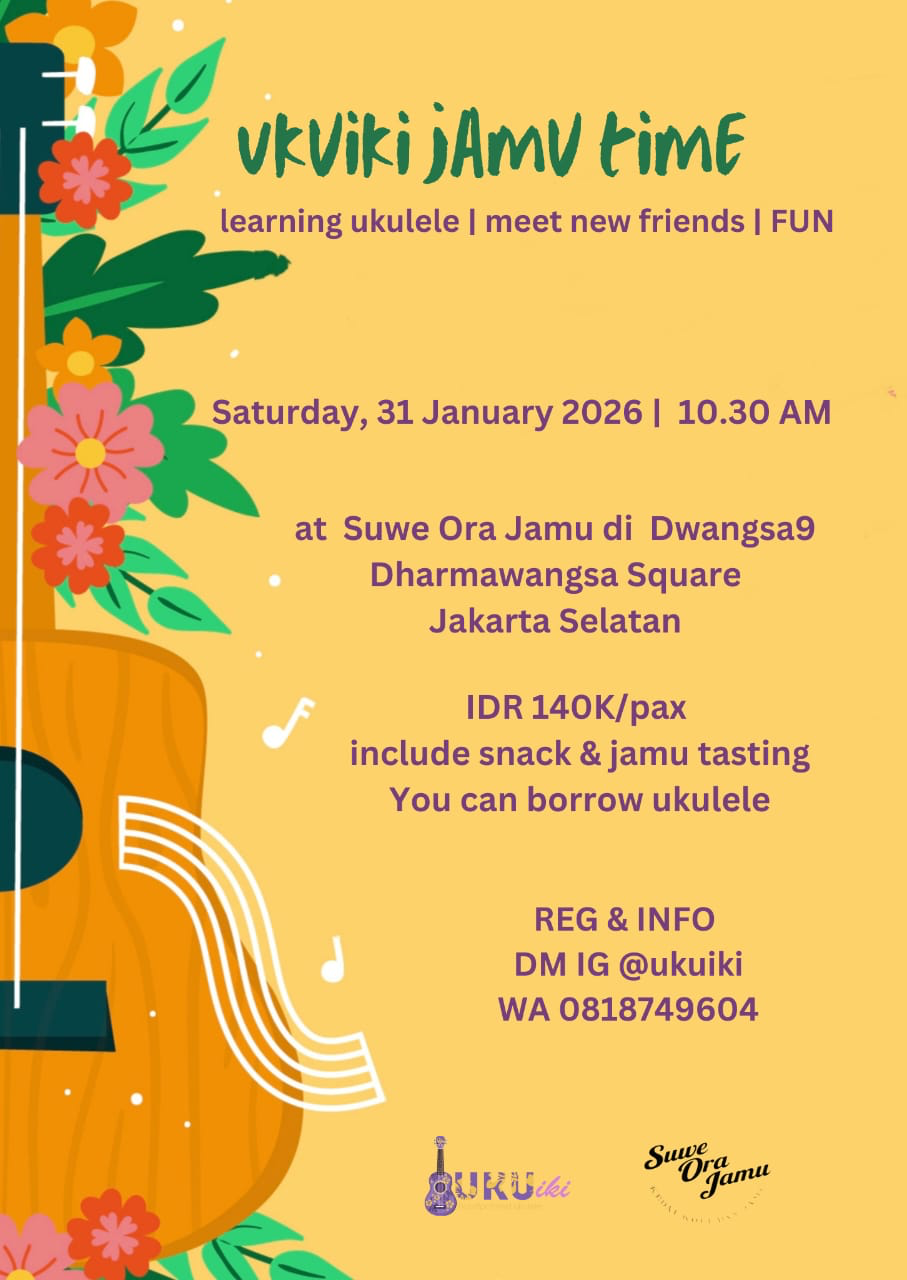
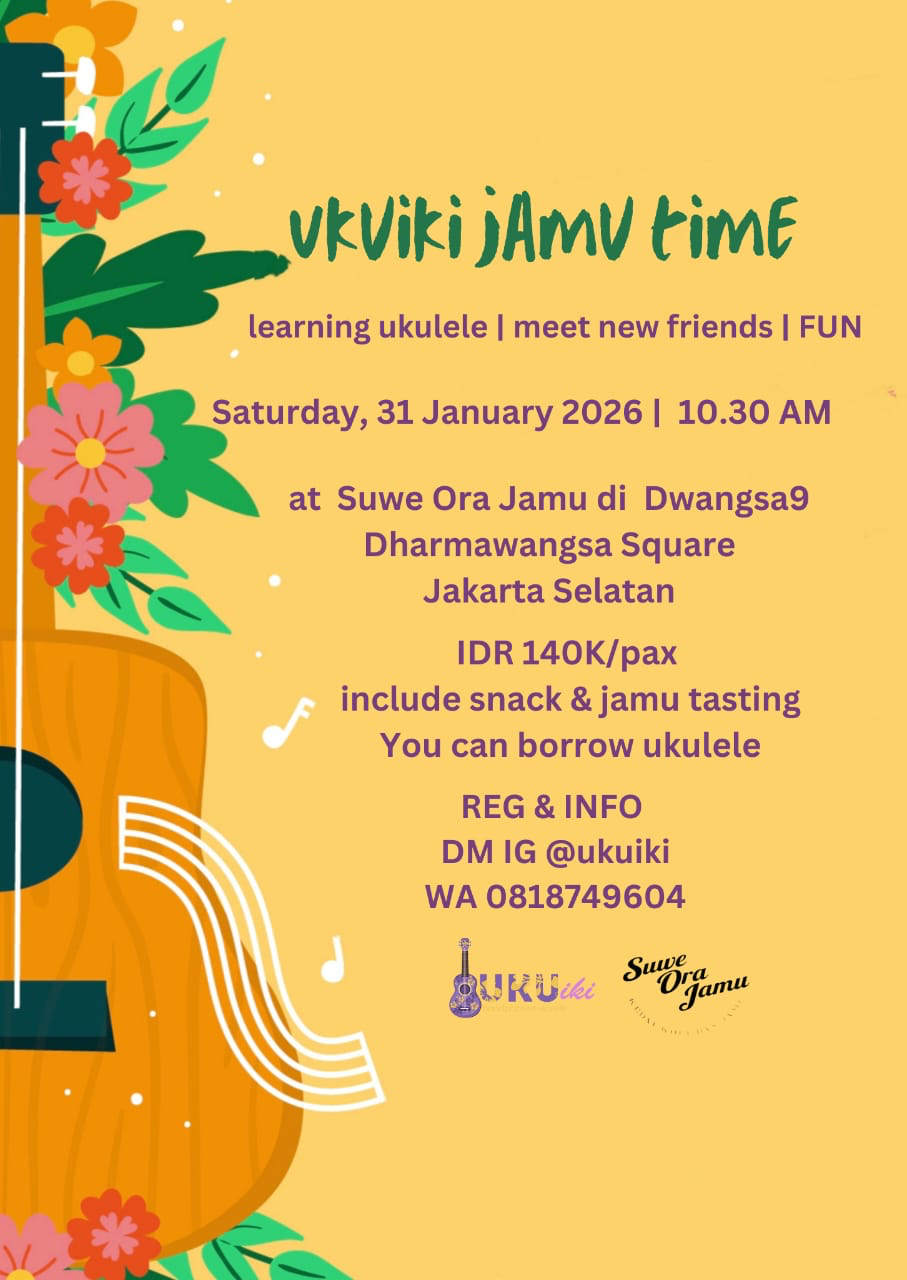
fix: image events changed

diff --git a/src/pages/Events.jsx b/src/pages/Events.jsx
@@ -4,8 +4,37 @@ import ImageModal from "../components/common/ImageModal.jsx";
 import { FiArrowRightCircle } from "react-icons/fi";
 import { JoinWorkshop } from "../components/utils/JoinWorkshop.jsx";
 
+// --- SUB-COMPONENT: EXPANDABLE TEXT ---
+const ExpandableText = ({ text }) => {
+  const [isExpanded, setIsExpanded] = useState(false);
+  const isLongText = text.length > 100;
+
+  return (
+    <div className="mb-3">
+      <p
+        className={`text-gray-600 text-sm md:text-base transition-all duration-300 ${
+          isExpanded ? "" : "line-clamp-3"
+        }`}
+      >
+        {text}
+      </p>
+
+      {isLongText && (
+        <button
+          onClick={() => setIsExpanded(!isExpanded)}
+          className="text-xs md:text-sm font-semibold text-primary hover:text-primary-dark mt-2 focus:outline-none transition-colors"
+        >
+          {isExpanded ? "See Less" : "... See More"}
+        </button>
+      )}
+    </div>
+  );
+};
+
+// --- MAIN COMPONENT ---
 export default function Events() {
   const today = new Date();
+
   const [modalOpen, setModalOpen] = useState(false);
   const [modalImage, setModalImage] = useState("");
   const [modalAlt, setModalAlt] = useState("");
@@ -19,26 +48,37 @@ export default function Events() {
   const sortedEvents = [...events].sort((a, b) => {
     const dateA = new Date(a.date);
     const dateB = new Date(b.date);
-    const isPastA = dateA < today;
-    const isPastB = dateB < today;
+
+    const todayZero = new Date();
+    todayZero.setHours(0, 0, 0, 0);
+    dateA.setHours(0, 0, 0, 0);
+    dateB.setHours(0, 0, 0, 0);
+
+    const isPastA = dateA < todayZero;
+    const isPastB = dateB < todayZero;
+
     if (isPastA && !isPastB) return 1;
     if (!isPastA && isPastB) return -1;
+
+    if (!isPastA && !isPastB) return dateA - dateB;
     return dateB - dateA;
   });
 
   return (
-    <section className="mx-auto max-w-5xl px-4 py-12">
-      <h1 className="mb-8 text-3xl font-extrabold text-primary drop-shadow">
+    <section className="mx-auto max-w-6xl px-4 py-12">
+      <h1 className="mb-8 text-3xl md:text-4xl font-extrabold text-primary drop-shadow text-center md:text-left">
         Upcoming Events!
       </h1>
 
-      <div className="grid gap-8 md:grid-cols-2">
+      {/* Responsive Grid: 1 -> 2 -> 3 Cols */}
+      <div className="grid gap-6 sm:gap-8 grid-cols-1 md:grid-cols-2 lg:grid-cols-3">
         {sortedEvents.map((w) => (
           <div
             key={w.id}
-            className="rounded-2xl bg-white shadow-md transition hover:shadow-lg overflow-hidden flex flex-col"
+            className="group flex flex-col rounded-2xl bg-white shadow-md transition hover:shadow-lg overflow-hidden"
           >
             {w.photo && (
+              // IMAGE STYLE: RESTORED TO ORIGINAL (ASPECT-SQUARE)
               <img
                 src={w.photo}
                 alt={w.title}
@@ -46,26 +86,37 @@ export default function Events() {
                 className="w-full aspect-square object-cover cursor-pointer transition duration-300 ease-in-out transform hover:scale-105 hover:-translate-y-1 rounded-t-2xl hover:shadow-lg"
               />
             )}
-            <div className="flex flex-col p-5 flex-1">
-              <h2 className="text-xl font-bold text-primary mb-2">{w.title}</h2>
-              <p className="text-gray-600 mb-2 line-clamp-3">{w.desc}</p>
-              <p className="text-sm text-gray-500 mb-1">
-                {new Date(w.date).toLocaleDateString("en-EN", {
-                  weekday: "long",
-                  day: "numeric",
-                  month: "long",
-                  year: "numeric",
-                })}{" "}
-                · {w.time}
-              </p>
-              <p className="text-sm text-gray-700 mb-3">{w.location}</p>
+
+            <div className="flex flex-col p-5 md:p-6 flex-1">
+              <h2 className="text-lg md:text-xl font-bold text-primary mb-2 line-clamp-2">
+                {w.title}
+              </h2>
+
+              {/* Text Expander Logic */}
+              <ExpandableText text={w.desc} />
+
+              <div className="mt-auto space-y-2 border-t pt-3">
+                <p className="text-xs md:text-sm text-gray-500 font-medium">
+                  {new Date(w.date).toLocaleDateString("en-EN", {
+                    weekday: "long",
+                    day: "numeric",
+                    month: "long",
+                    year: "numeric",
+                  })}{" "}
+                  · {w.time}
+                </p>
+                <p className="text-xs md:text-sm text-gray-700 line-clamp-2">
+                  {w.location}
+                </p>
+              </div>
+
               <a
                 href={JoinWorkshop(w.title)}
                 target="_blank"
                 rel="noopener noreferrer"
-                className="mt-auto inline-block w-max rounded-full bg-primary px-5 py-2 text-sm text-white hover:bg-primary-dark transition duration-300 group"
+                className="mt-4 inline-flex items-center justify-center w-full rounded-xl bg-primary px-5 py-3 text-sm font-semibold text-white shadow-sm hover:bg-primary-dark transition-all duration-300 group/btn"
               >
-                <FiArrowRightCircle className="inline-block mr-2 text-xl group-hover:animate-bounce" />
+                <FiArrowRightCircle className="mr-2 text-lg group-hover/btn:animate-bounce" />
                 Sign Up
               </a>
             </div>
@@ -73,7 +124,6 @@ export default function Events() {
         ))}
       </div>
 
-      {/* Modal Gambar */}
       <ImageModal
         isOpen={modalOpen}
         onClose={() => setModalOpen(false)}
